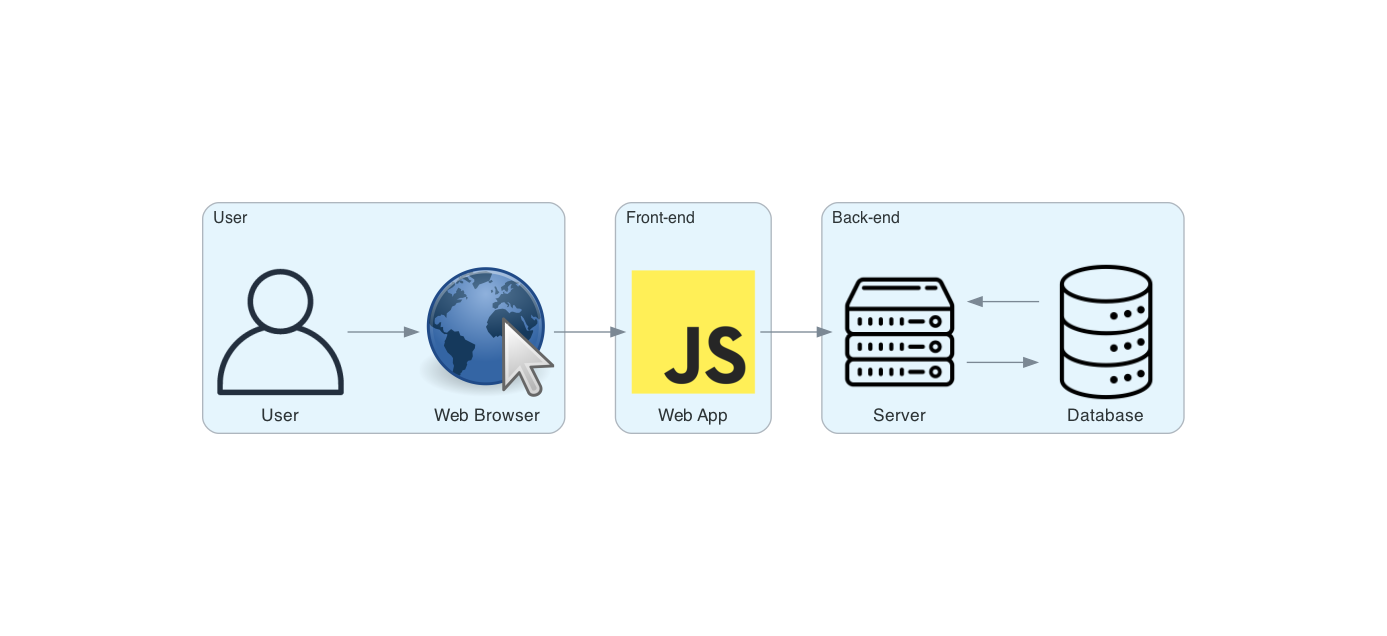
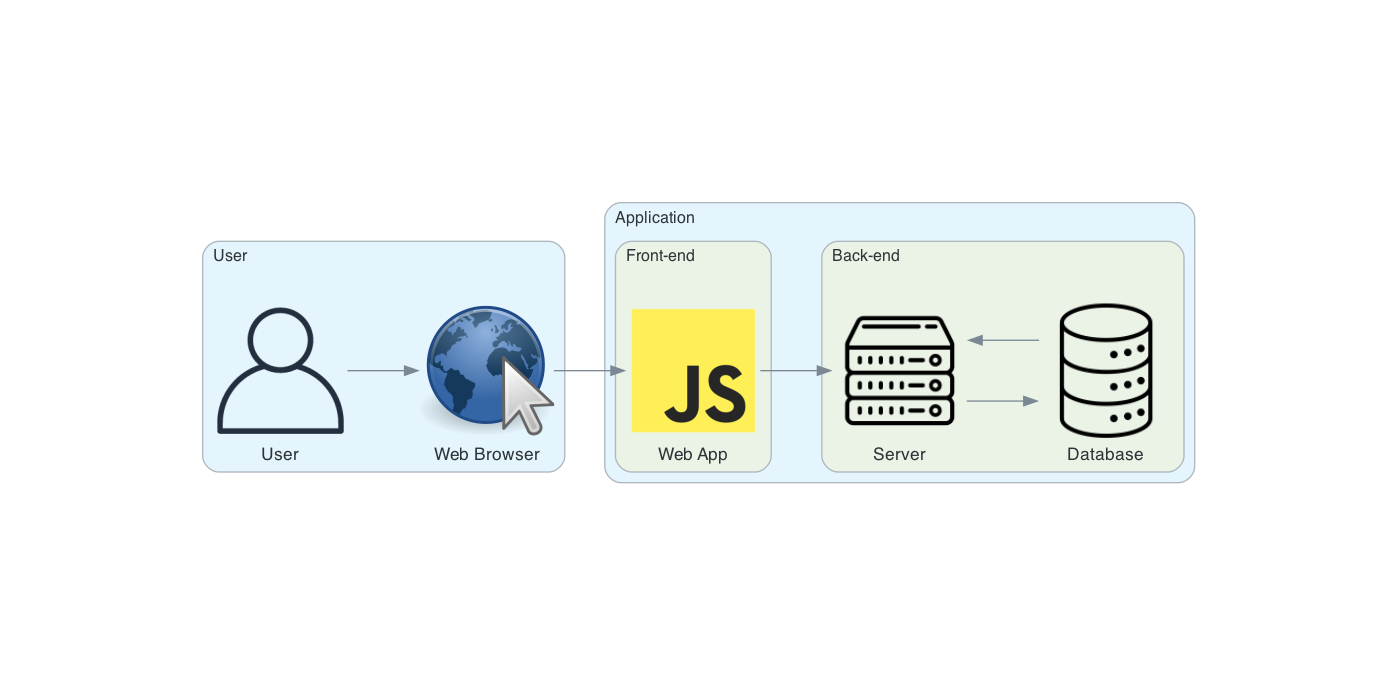
feat: add db replica examples

Changed region(s): [[0.124, 0.2689, 0.8681, 0.717]]

diff --git a/with_db_replicas.py b/with_db_replicas.py
@@ -1,0 +1,28 @@
+from diagrams import Cluster, Diagram
+from diagrams.aws.compute import ECS
+from diagrams.aws.database import RDS
+from diagrams.aws.network import ELB
+from diagrams.programming.language import Javascript
+
+with Diagram("", show=False):
+    with Cluster("Front-end"):
+      web_app = Javascript("Web App")
+
+    with Cluster("Back-end"):
+      with Cluster("Server"):
+        load_balancer = ELB("Load Balancer")
+        instances = [ECS("Instance 3"),
+                     ECS("Instance 2"),
+                     ECS("Instance 1")]
+        
+      
+      with Cluster("Database Cluster"):
+        db_master = RDS("Master")
+        db_replicas = [RDS("Replica 3"),
+                    RDS("Replica 2"),
+                    RDS("Replica 1")]
+        
+    # connections
+    web_app >> load_balancer >> instances >> db_master
+    db_master - db_replicas
+

diff --git a/with_multi_master.py b/with_multi_master.py
@@ -1,0 +1,25 @@
+from diagrams import Cluster, Diagram
+from diagrams.aws.compute import ECS
+from diagrams.aws.database import RDS
+from diagrams.aws.network import ELB
+from diagrams.programming.language import Javascript
+
+with Diagram("", show=False):
+    with Cluster("Front-end"):
+      web_app = Javascript("Web App")
+
+    with Cluster("Back-end"):
+      with Cluster("Server"):
+        load_balancer = ELB("Load Balancer")
+        instances = [ECS("Instance 1"),
+                     ECS("Instance 2"),
+                     ECS("Instance 3")]
+      
+      with Cluster("Database Cluster", direction="TB"):
+        db_node_1 = RDS("Node 1")
+        db_node_2 = RDS("Node 2")
+        
+    # connections
+    web_app >> load_balancer >> instances >> db_node_1
+    db_node_1 - db_node_2
+

diff --git a/basic_architecture.py b/basic_architecture.py
@@ -8,18 +8,14 @@ with Diagram("", show=False):
       user = User("User")
       web_browser = Custom("Web Browser", "./res/browser.png")
 
-    with Cluster("Front-end"):
-      web_app = Javascript("Web App")
+    with Cluster("Application"):
+      with Cluster("Front-end"):
+        web_app = Javascript("Web App")
 
-    with Cluster("Back-end"):
-      server = Custom("Server", "./res/server.png")
-      db = Custom("Database", "./res/database.png")
-
+      with Cluster("Back-end"):
+        server = Custom("Server", "./res/server.png")
+        db = Custom("Database", "./res/database.png")
 
     # connections
-    user >> web_browser
-    web_browser >> web_app
-    web_app >> server
-
-    server >> db
+    user >> web_browser >> web_app >> server >> db
     db >> server

diff --git a/with_load_balancer.py b/with_load_balancer.py
@@ -1,0 +1,21 @@
+from diagrams import Cluster, Diagram
+from diagrams.aws.compute import ECS
+from diagrams.aws.network import ELB
+from diagrams.custom import Custom
+from diagrams.programming.language import Javascript
+
+with Diagram("", show=False):
+    with Cluster("Front-end"):
+      web_app = Javascript("Web App")
+
+    with Cluster("Back-end"):
+      db = Custom("Database", "./res/database.png")
+      with Cluster("Server"):
+        load_balancer = ELB("Load Balancer")
+        instances = [ECS("Instance 1"),
+                     ECS("Instance 2"),
+                     ECS("Instance 3")]
+
+    # connections
+    web_app >> load_balancer >> instances >> db
+

diff --git a/ci_cd_development.py b/ci_cd_development.py
@@ -5,7 +5,7 @@ from diagrams.custom import Custom
 from diagrams.programming.language import Javascript
 
 with Diagram("", show=False):
-    with Cluster("Back-end"):
+    with Cluster("Application"):
       server = Custom("Server", "./res/server.png")
 
     with Cluster("Development"):
@@ -17,9 +17,5 @@ with Diagram("", show=False):
           deploy = Custom("Automated Deploy", "./res/deploy.png")
           test = Custom("Automated Test", "./res/test.png")
 
-    dev >> git
-    git >> rack
-    rack >> binaries
-    binaries >> deploy
-    deploy >> test
+    dev >> git >> rack >> binaries >> deploy >> test
     deploy >> server
